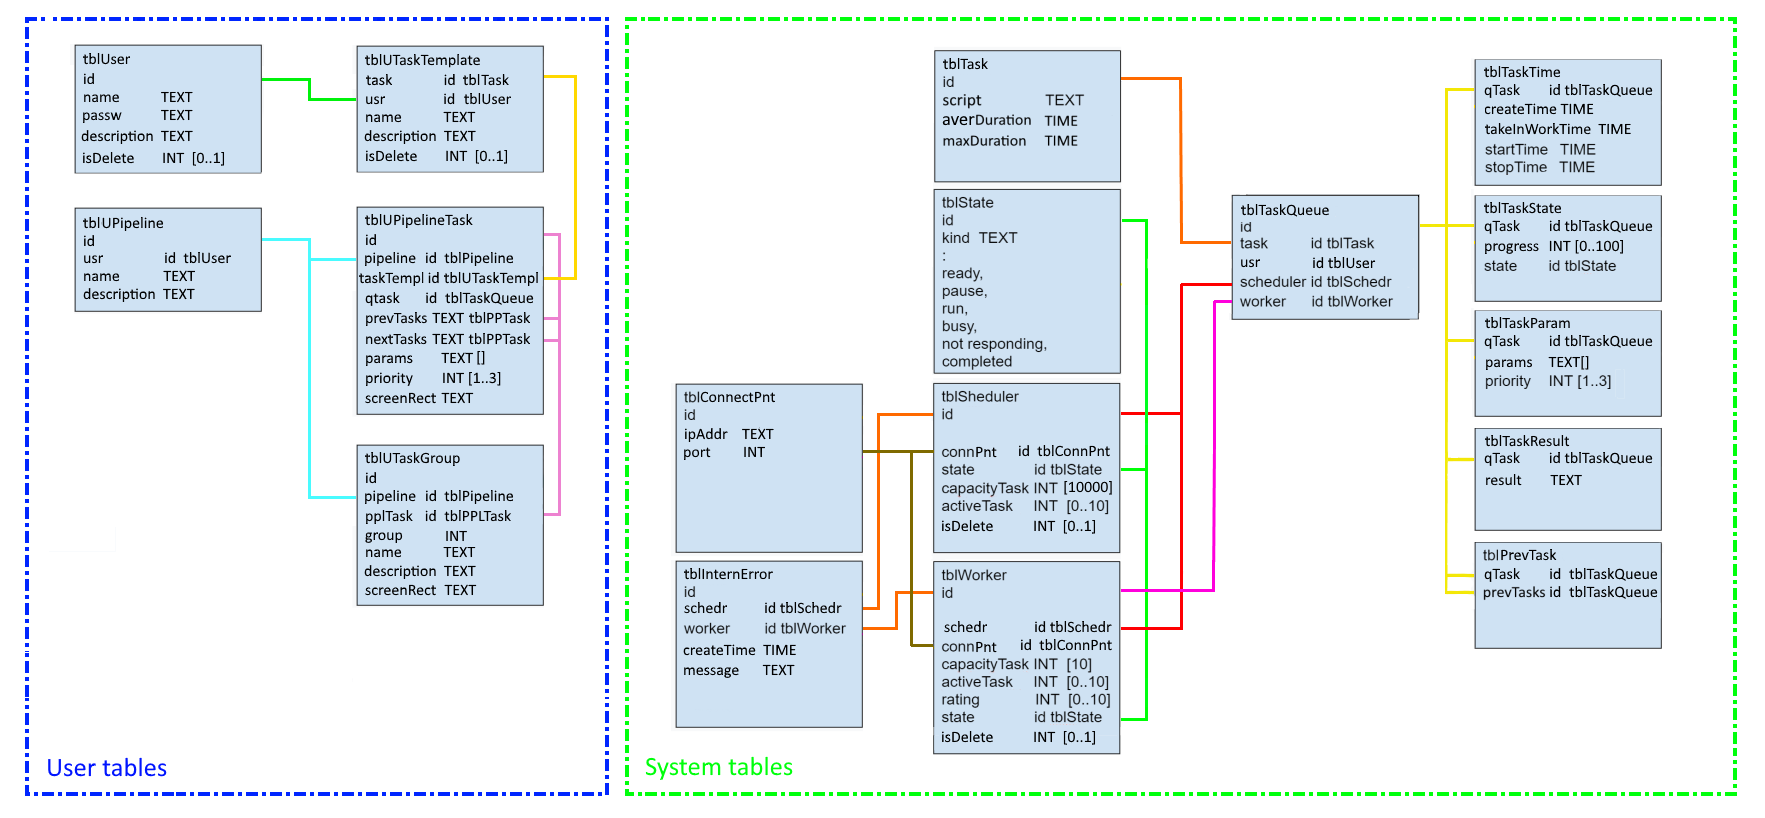
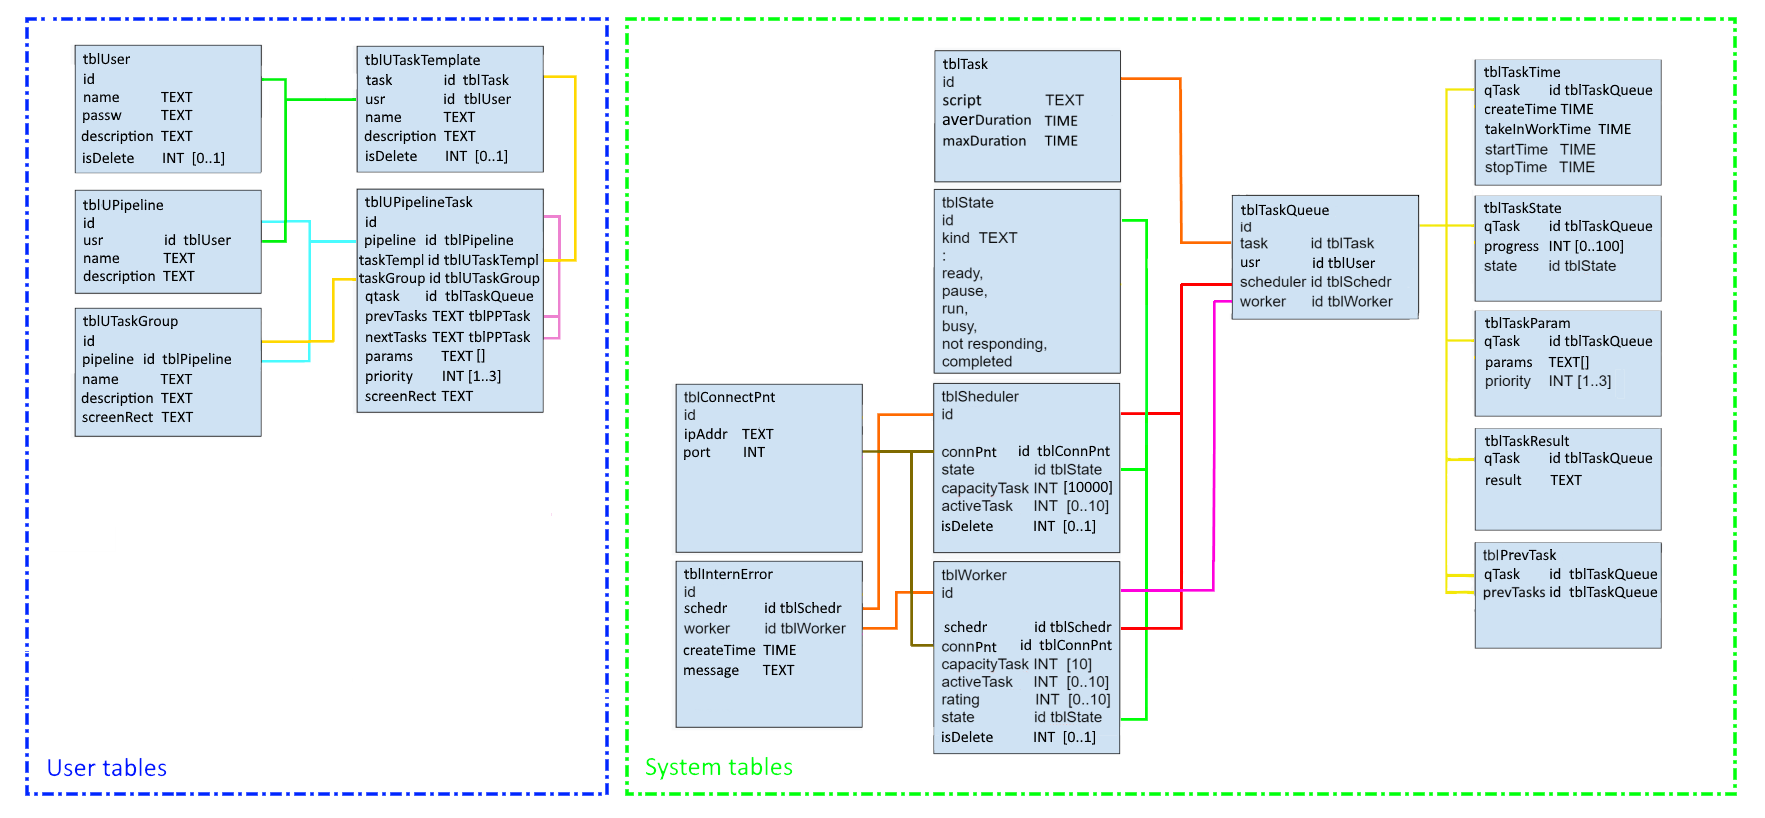
-dev

diff --git a/core/zmDbProvider/src/dbPGProvider.cpp b/core/zmDbProvider/src/dbPGProvider.cpp
@@ -228,6 +228,7 @@ bool DbPGProvider::createTables(){
         "id           SERIAL PRIMARY KEY,"
         "pipeline     INT NOT NULL REFERENCES tblUPipeline,"
         "taskTempl    INT NOT NULL REFERENCES tblUTaskTemplate,"
+		"taskGroup    INT REFERENCES tblUTaskGroup,"
         "qtask        INT REFERENCES tblTaskQueue,"
         "priority     INT NOT NULL DEFAULT 1 CHECK (priority BETWEEN 1 AND 3),"
         "prevTasks    INT[] NOT NULL,"     // [..]  
@@ -240,7 +241,6 @@ bool DbPGProvider::createTables(){
   ss << "CREATE TABLE IF NOT EXISTS tblUTaskGroup("
         "id           SERIAL PRIMARY KEY,"
         "pipeline     INT NOT NULL REFERENCES tblUPipeline,"
-        "pplTask      INT NOT NULL REFERENCES tblUPipelineTask,"
         "name         TEXT NOT NULL CHECK (name <> ''),"
         "description  TEXT NOT NULL,"
         "screenRect   TEXT NOT NULL);";
